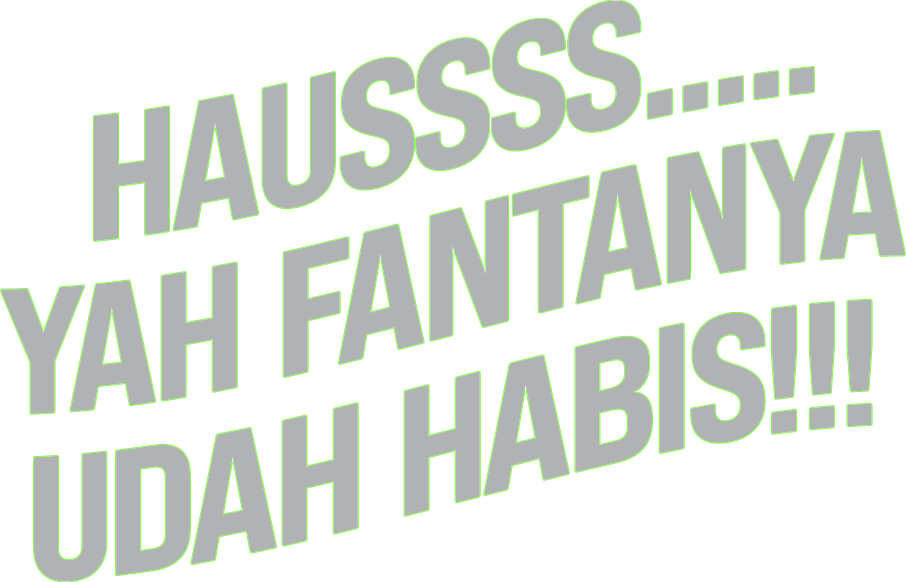
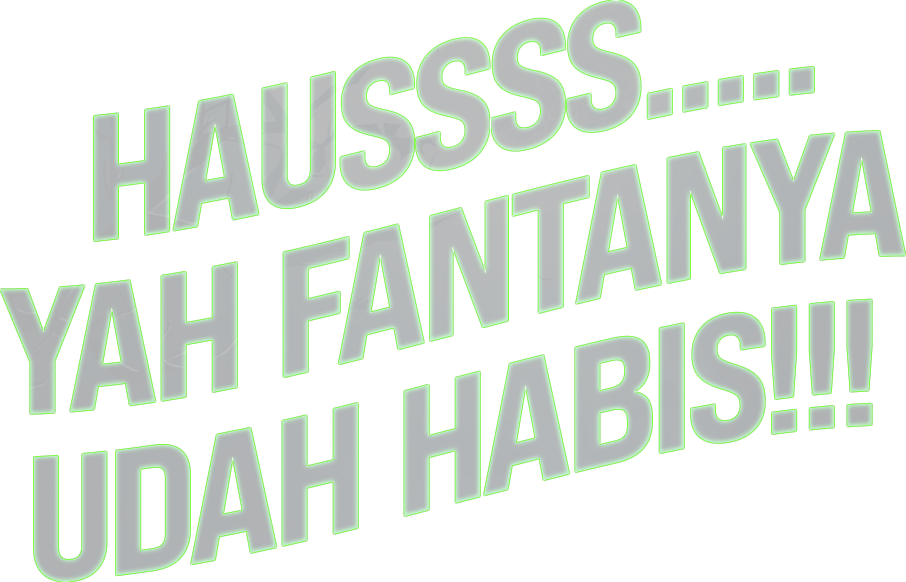
fanta

diff --git a/FantaHorror/index.css b/FantaHorror/index.css
@@ -11,7 +11,7 @@
   --fanta-yellow: #FFAA00;
   --horror-purple: #1A0B2E;
   --horror-dark: #0B0514;
-  --horror-green: #2BFF88;
+  --horror-green: #2BFF22;
   --text-light: #FFFFFF;
   --text-muted: #D1C4E9;
   --font-primary: 'Outfit', sans-serif;
@@ -326,8 +326,8 @@ body {
   font-size: 2.3rem;
   font-weight: 900;
   color: #05020A;
-  -webkit-text-stroke: 2.5px #02E661;
-  text-shadow: 0 0 14px rgba(2, 230, 97, 0.9), 0 0 4px #02E661;
+  -webkit-text-stroke: 2.5px #2BFF22;
+  text-shadow: 0 0 14px rgba(43, 255, 34, 0.9), 0 0 4px #2BFF22;
   letter-spacing: -0.5px;
 }
 
@@ -420,6 +420,7 @@ body {
   transform: translateX(-50%) translateY(0);
 }
 
+/* Suzzanna attack: standard bottle stays in front, ghost hand rises behind it */
 .grave-slot.active-suzzanna .fanta-bottle {
   opacity: 1;
   transform: translateX(-50%) translateY(0);
@@ -444,7 +445,7 @@ body {
   transform-origin: bottom center;
 }
 
-/* 3. Suzzanna Frozen Blue Bottle (192x425 px asset - 1:1 exact match to green bottle) */
+/* 3. Hand grips the bottle and drags it into the grave once stolen — frozen only at this final pull */
 .suzzanna-stolen {
   background-image: url('assets/crop_suzzanna_steal_bottle.png');
   z-index: 3;
@@ -487,22 +488,8 @@ body {
   100% { transform: translateX(-50%) scale(1) rotate(0deg); }
 }
 
-/* Active Slot States */
-.grave-slot.active-bottle .fanta-bottle {
-  opacity: 1;
-  transform: translateX(-50%) translateY(0);
-}
-
-/* Suzzanna attack: Green bottle in front, open pale hand behind */
-.grave-slot.active-suzzanna .fanta-bottle,
-.grave-slot.active-suzzanna .suzzanna-hand {
-  opacity: 1;
-  transform: translateX(-50%) translateY(0);
-}
-
 /* Saved animation */
 .grave-slot.saved .fanta-bottle,
-.grave-slot.saved .suzzanna-hand,
 .grave-slot.suzzanna-defeated .fanta-bottle,
 .grave-slot.suzzanna-defeated .suzzanna-hand {
   animation: savePop 0.35s ease-out forwards;

diff --git a/FantaHorror/js/game.js b/FantaHorror/js/game.js
@@ -129,8 +129,8 @@ class FantaHorrorGame {
                     // Winner Voucher Claim Flow
                     alert(`Selamat! Voucher ${this.selectedVoucher} berhasil diklaim untuk menonton bioskop pilihanmu!`);
                 } else {
-                    // Default Game Flow: Launch 30s Survival Game!
-                    this.startGame();
+                    // Upload Struk Flow: each option leads to its campaign link (brief: "setiap opsi akan menuju link campaign"), NOT the survival game
+                    alert(`Menuju link campaign voucher ${this.selectedVoucher}...`);
                 }
             });
         });
@@ -453,7 +453,7 @@ class FantaHorrorGame {
 
     handleSuzzannaSteal(slot) {
         slot.status = 'frozen';
-        slot.el.className = 'grave-slot suzzanna-stolen freezing';
+        slot.el.className = 'grave-slot stolen freezing';
         window.soundManager.playSfx('iceFreeze');
 
         this.health = Math.max(0, this.health - 1);

diff --git a/FantaHorror/js/sound.js b/FantaHorror/js/sound.js
@@ -70,7 +70,8 @@ class SoundManager {
 
         if (this.sounds[key]) {
             this.currentBgm = this.sounds[key];
-            this.currentBgm.currentTime = 0;
+            // Brief: Dark Ambiance track skips its first 5 seconds
+            this.currentBgm.currentTime = key === 'darkAmbiance' ? 5 : 0;
             this.currentBgm.play().catch(e => {
                 console.log('BGM playback pending user interaction:', e);
             });
